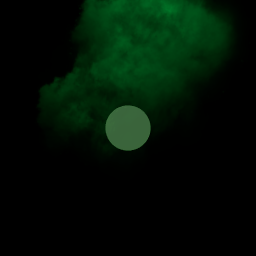
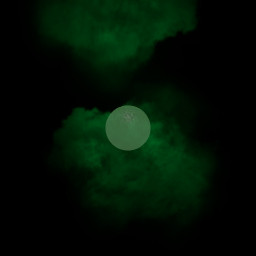
fixed ui

diff --git a/code/Zombie/UI/UI.razor.scss b/code/Zombie/UI/UI.razor.scss
@@ -6,15 +6,21 @@ UI {
     background-color: rgba(52, 26, 199, 0);
     opacity: 1;
 
+    
     .npc 
     {
         transition: opacity 0.5s ease-in-out;
-      
+        opacity: 0;
         width: 100%;
         height: 100%;
         position: relative;
         
         flex-direction: column;
+        &.show {
+                opacity: 1;
+            }
+        
+        }
 
         .npc-name {
         position: relative;
@@ -31,18 +37,13 @@ UI {
         font-family:Geneva;
         background-color: rgba(211, 0, 0, 0.801);
         text-shadow: 0px 3px 1px #000000;
-
-        
-      
         color: rgb(255, 255, 255);
         border-radius: 5px;
         justify-content: center;
         text-align: center;
         align-items: center;
        
-        
-        
-        }
+       
         .ability
         {
             position: relative;

diff --git a/code/Zombie/Zombie.cs b/code/Zombie/Zombie.cs
@@ -1285,6 +1285,8 @@ public partial class Npc : Component, IHealthComponent ,IMinimapElement
 		// Mindest-XP-Belohnung
 		return Math.Max( xpReward, 10 );
 	}
+	private float lastDamageEventTime = 0f; // Letzter Zeitpunkt, an dem das Event ausgelöst wurde
+	private const float damageEventCooldown = 0.1f;
 
 	[Rpc.Broadcast]
 	public void TakeDamage( DamageType type, float amount, Vector3 hitPosition, Vector3 hitDirection, Guid attackerId, Guid playerId )
@@ -1318,9 +1320,13 @@ public partial class Npc : Component, IHealthComponent ,IMinimapElement
 
 		Health = Math.Clamp( Health - amount, 0f, MaxHealth );
 
-		
 
-		OnTakeDamage?.Invoke();
+
+		if ( Time.Now - lastDamageEventTime >= damageEventCooldown )
+		{
+			OnTakeDamage?.Invoke();
+			lastDamageEventTime = Time.Now; // Aktualisiere den letzten Zeitpunkt
+		}
 
 		RecentlyDamaged = true;
 		LastDamageTime = Time.Now;

diff --git a/code/Game/SceneHandler2.cs b/code/Game/SceneHandler2.cs
@@ -97,6 +97,7 @@ public static class SceneHandler2
         
 
     }
+    
 
     [Rpc.Broadcast( NetFlags.SendImmediate )]
     public static void LoadNewScene( GameResource resource, GeneralScene2 scene )
